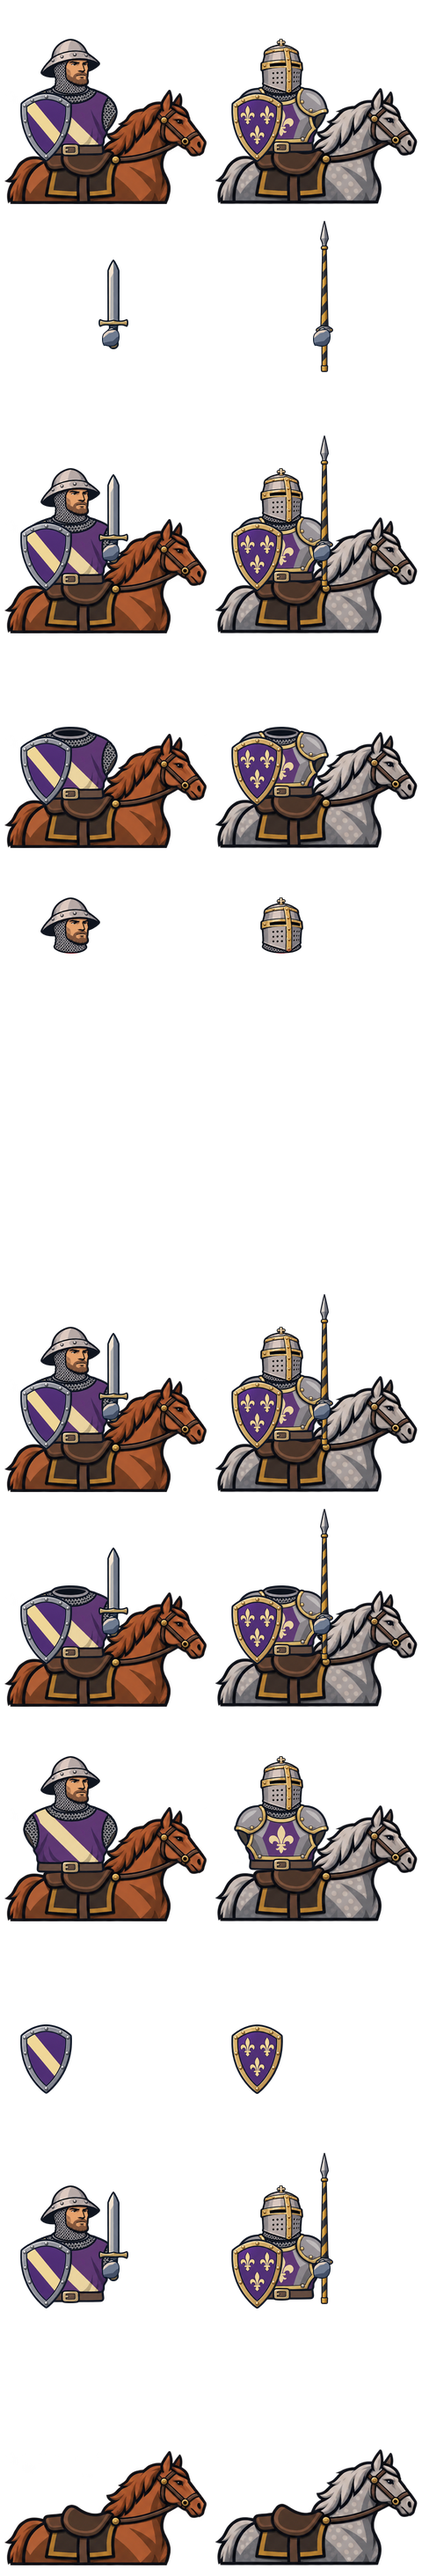
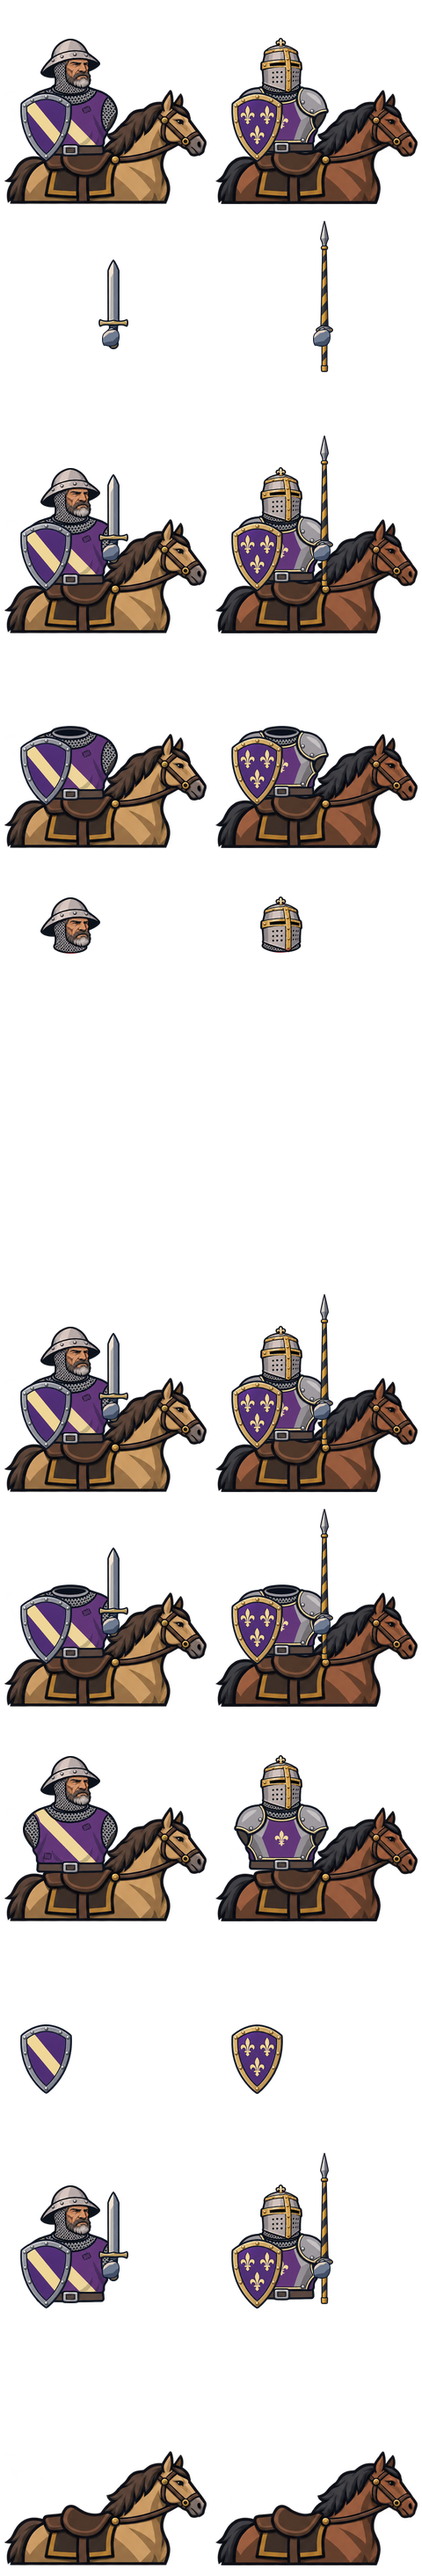
Галлия: варианты бойцов — другие лица, детали брони и масти коней (#283) (#284)
Страницы 1–3 атласа Галлии собираются из своих листов kin-torsos-vN / kin-heads-vN
и с другой естественной мастью коня (флаг variants: true у фракции; остальные
фракции побайтно без изменений). Павший конь берёт вариант всадника.

Claude-Session: https://claude.ai/code/session_0112NLBndME8PiXpuX2g7p2P

diff --git a/shareness/lessons.md b/shareness/lessons.md
@@ -200,3 +200,4 @@
 - 2026-11-20 — **Бой на C++: замер фаз (#250, #261).** Описание фаз в профиле обманчиво: урон ближнего боя считается в `ai_movement_combat` (обратные вызовы из ядра), а `contacts` — это расталкивание, оно уже C++. Цену подфаз видно только по временным отметкам в копии. Урон на GDScript дешёвый (0,2–0,4 мс за тик), а дорогой была граница: адаптеры читали packed-массивы через `operator[]` godot-cpp, а это вызов в движок на каждый элемент. Проверка 2000 строк на каждом из 6–30 выходов ядра за тик стоила до 0,9 мс; через `ptr()` p95 конницы 6,3 → 4,6 мс при том же бое. В адаптерах C++ читать и писать packed-массивы только через `ptr()`/`ptrw()`. Мораль раз в секунду — всплеск 4–8 мс на тик: в p95 его не видно, смотри p99. Правило для новых этапов: логика на каждого бойца в каждом тике пишется сразу в C++ kernel, решения отрядов по расписанию могут остаться на GDScript (`godot/docs/modules/ai/DESIGN.md` 7.4, п. 8; план — `godot/docs/benchmarks/battle-native-plan-2026-11-20.md`).
 - 2026-11-20 — **Разбор мозга армии перед командиром 1г (#265).** Перекос «держащий игрок сильнее атакующего ИИ» меряй одним составом в двух режимах: `equal` (ИИ против ИИ, `--mirror`) и «игрок держит» (сторона 0 на профиле игрока, герой ушёл; зеркало не нужно — при равных армиях оно повторяет тот же бой). На `main` та же армия выигрывает за сторону 0 6 из 24 боёв против ИИ и 16 из 16, просто стоя: мозг `tactics.gd` идёт в атаку всегда и маршем 40 при своей скорости 60, то есть 16–39 с под стрелами. Ещё грабля: конница обеих сторон ставится на один и тот же фланг (`State.setup_groups`, `cavalry_flank`), а мозг выбирает сторону обхода по своему положению — обход всегда идёт на вражескую конницу. Арена с native-бэкендом быстрая: 100 и 500 на сторону, 160 боёв в три процесса — около двух минут (debug). Новые решения командира — по расписанию и без своего прохода по бойцам: проход морали раз в секунду уже стоит 4–8 мс одним тиком (план — `godot/docs/modules/ai/DESIGN.md` 4.2).
 - 2026-11-20 — **Все фракции в геральдике.** Галлия, эмират, пакт и разбойники сгенерированы через Codex параллельно (по чату на лист), все листы годные с первого захода — промпты в `heraldic_source/<фракция>-prompts.md`. Оранжевый эмирата совпадает по оттенку с кожей: для перекраски в стяг у фракции задан `min_saturation` (кожа ~0.4, ткань ~0.8). Батч computer use длиннее ~60 с обрывается по таймауту моста — запускать не больше 3 чатов за вызов.
+- 2026-11-20 — **Варианты бойцов (Галлия).** Чтобы отряд не был клонами, страницы 1–3 атласа собираются из своих листов `<фракция>-torsos-vN.png` / `-heads-vN.png` (те же клетки, броня и цвета, другие люди и детали) и с другой естественной мастью коня; включается флагом `variants: true` у фракции в `render_heraldic_faction.cjs`, без флага страницы остаются как были (проверено побайтно). Грабли: у варианта тыльная сторона воротника может выйти серой (сумма RGB ≈200) и слиться с тёмным вырезом — голова садится внутрь туловища; для вариантов вырез ищется по порогу 150. Павший конь берёт вариант всадника (`mount_corpse(..., variant)`), иначе вороной падает гнедым.

diff --git a/godot/tools/battle/heraldic_source/kin-prompts.md b/godot/tools/battle/heraldic_source/kin-prompts.md
@@ -55,3 +55,15 @@ Square canvas, STRICT 3x3 grid of equal cells, one shield centered in each used 
 8 f2c: kite shield, purple field with a cream diagonal bend, steel rim.
 9 f3c: kite shield, purple field with three cream fleurs-de-lis, gilded rim.
 ```
+
+## Варианты
+
+Листы `kin-torsos-v1…v3.png` и `kin-heads-v1…v3.png` — правка `kin-torsos.png` / `kin-heads.png` (вложение) тем же
+генератором. Общее для туловищ: «Draw a VARIANT of the SAME sheet: the same nine troops in the SAME cells… Every torso keeps
+EXACTLY its troop's armour type, its main colours, its silhouette… Only the DETAILS change: …» и обычный хвост про стиль
+и сетку 3×3. Детали: v1 — поношенная ткань с заплатами, полосатая отделка, простые железные пряжки, лилия меньше или на
+плече; v2 — ремни и наплечники, шахматная кайма, латунные заклёпки, поясные сумки; v3 — выцветшая ткань, кремовая
+отделка ворота и перевязь, латунные бляхи, ряды заклёпок.
+Головы: «the same nine helmets… but DIFFERENT MEN under them»: v1 — пожилые ветераны с проседью; v2 — молодые, бритые,
+светлые или рыжие; v3 — темноволосые, густые усы или раздвоенные бороды, шрамы. Закрытые шлемы меняют только намёт
+или навершие: v1 кремовый намёт, v2 полосатый намёт, v3 золочёная шишка.
